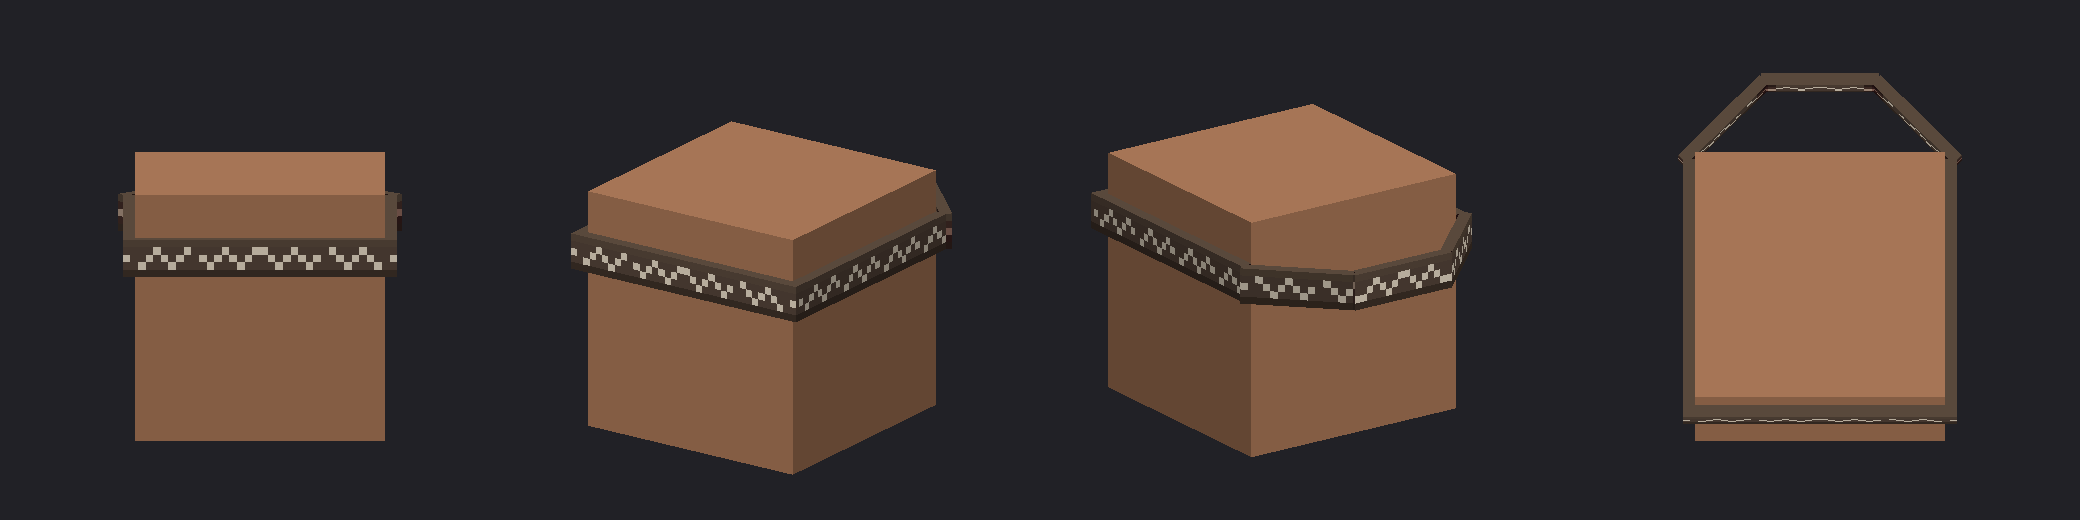
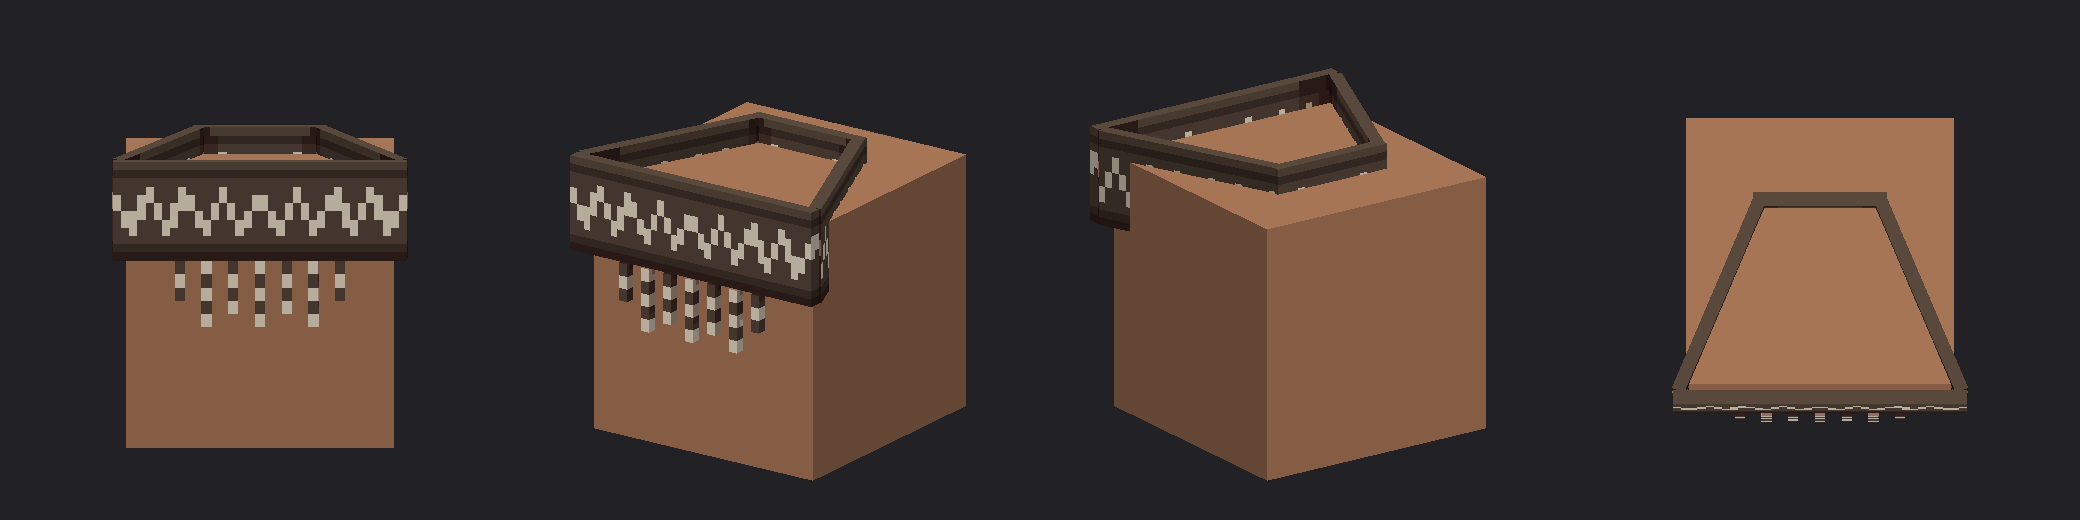
Kemira paso 1: diadema alta en trapecio sobre la cabeza con flecos de cuentas
Claude-Session: https://claude.ai/code/session_01JLSuk79QgXUucDMTiBYitK

diff --git a/taller/personajes/kemira.py b/taller/personajes/kemira.py
@@ -1,8 +1,9 @@
 """
 Kemira, diosa de Thza (avatar). Se arma paso a paso siguiendo la hoja referencias/personajes/kemira_hoja.png.
 
-Paso 1: la cabeza, un cubo liso del color de piel de la hoja (#A67556), y la diadema: cuadrada adelante y a los
-costados, y atras se cierra en triangulo cortado al medio (termina recta), de punta a punta de la cabeza.
+Paso 1: la cabeza, un cubo liso del color de piel de la hoja (#A67556), y la diadema alta sobre la cabeza: vista
+desde arriba es un trapecio (adelante de punta a punta de la frente, se cierra hacia atras y termina recta), con
+flecos de cuentas colgando adelante.
 """
 
 import math
@@ -27,28 +28,34 @@ def tejido(t):
     return hex_(CREMA if abs(v - (0.3 + 0.4 * tri)) < 0.09 else CAFE)
 
 
-def diadema(p, y0, y1, lado=4.0, grosor=0.4, cola=2.6):
-    """Diadema alrededor de la cabeza (de lado 2*lado): frente y costados rectos; atras, dos tramos a 45 grados que
-    se cierran hacia el medio y una punta recta (el triangulo cortado al medio). cola: cuanto sale por detras."""
+def diadema(p, T, alto=3.0, grosor=0.4):
+    """Diadema alta sobre la cabeza, vista desde arriba es un trapecio: adelante, de punta a punta de la frente;
+    los costados se cierran hacia atras y termina recta antes de la nuca. Adelante cuelgan flecos de cuentas."""
     g = "Head/diadema"
-    a = lado + grosor
-    p.caja(g, "frente", (-a, y0, -a), (a, y1, -lado), tejido, dens=D)
+    y0, y1 = T - alto + 0.8, T + 0.8
+    fx, fz = 4.25, -4.25                                         # esquinas de adelante
+    bx, bz = 1.8, 1.5                                            # esquinas de atras
+    p.caja(g, "frente", (-fx - 0.15, y0, fz - grosor), (fx + 0.15, y1, fz), tejido, dens=D)
     for s in (1, -1):
-        x1, x2 = sorted((s * lado, s * a))
-        p.caja(g, f"costado{s}", (x1, y0, -a), (x2, y1, lado), tejido, dens=D)
-        # tramo que se cierra: de la esquina de atras (s*a, lado) hacia (s*(a - cola), lado + cola)
-        largo = cola * math.sqrt(2)
-        cx, cz = s * (a - cola / 2), lado + cola / 2
-        p.caja(g, f"cierre{s}", (cx - largo / 2, y0, cz - grosor / 2), (cx + largo / 2, y1, cz + grosor / 2), tejido,
-               rot=(0, 45 * s, 0), piv=(cx, y0, cz), dens=D)
-    ancho = a - cola                                             # la punta recta de atras
-    p.caja(g, "punta", (-ancho - 0.1, y0, lado + cola - grosor / 2), (ancho + 0.1, y1, lado + cola + grosor / 2),
-           tejido, dens=D)
+        dx, dz = bx - fx, bz - fz
+        largo = math.hypot(dx, dz)
+        ang = math.degrees(math.atan2(dz, abs(dx)))              # giro en Y para que el largo siga el costado
+        cx, cz = s * (fx + bx) / 2, (fz + bz) / 2
+        p.caja(g, f"costado{s}", (cx - largo / 2, y0, cz - grosor / 2), (cx + largo / 2, y1, cz + grosor / 2),
+               tejido, rot=(0, ang * s, 0), piv=(cx, y0, cz), dens=D)
+    p.caja(g, "atras", (-bx - 0.2, y0, bz - grosor / 2), (bx + 0.2, y1, bz + grosor / 2), tejido, dens=D)
+    # flecos de cuentas que cuelgan del frente
+    for k, x in enumerate((-2.4, -1.6, -0.8, 0.0, 0.8, 1.6, 2.4)):
+        largo = (1.4, 2.0, 1.6, 2.4, 1.6, 2.0, 1.4)[k]
+        for i in range(int(largo / 0.4)):
+            y = y0 - 0.4 * (i + 1)
+            p.caja(g, f"cuenta{k}_{i}", (x - 0.15, y, fz - grosor - 0.1), (x + 0.15, y + 0.4, fz - grosor + 0.2),
+                   color(CREMA if (i + k) % 2 else CAFE), dens=D)
 
 
 def construir():
     p = Personaje("kemira", altura=36, cabeza=8, torso=(7.4, 12, 4.0), brazo=(2.6, 2.6), pierna=(3.4, 3.4))
     C, T = p.cuello, p.tope                                # 28, 36
     p.caja("Head/cabeza", "cabeza", (-4, C, -4), (4, T, 4), color(PIEL), dens=D, luz=False)
-    diadema(p, T - 2.6, T - 1.4)
+    diadema(p, T)
     return p
